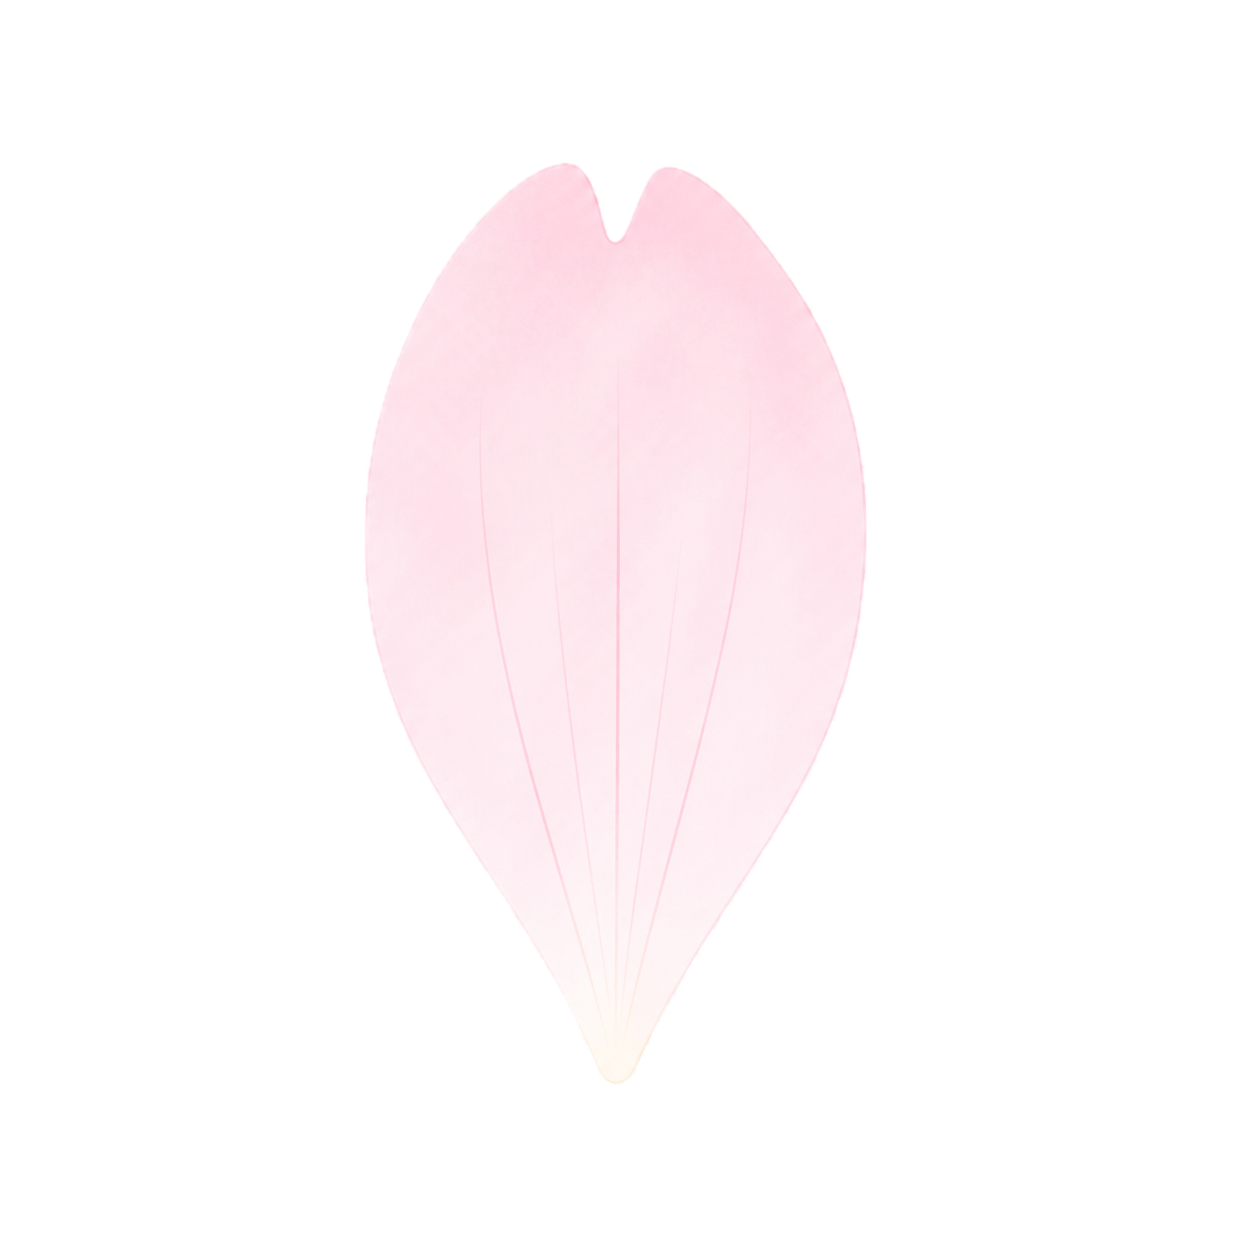
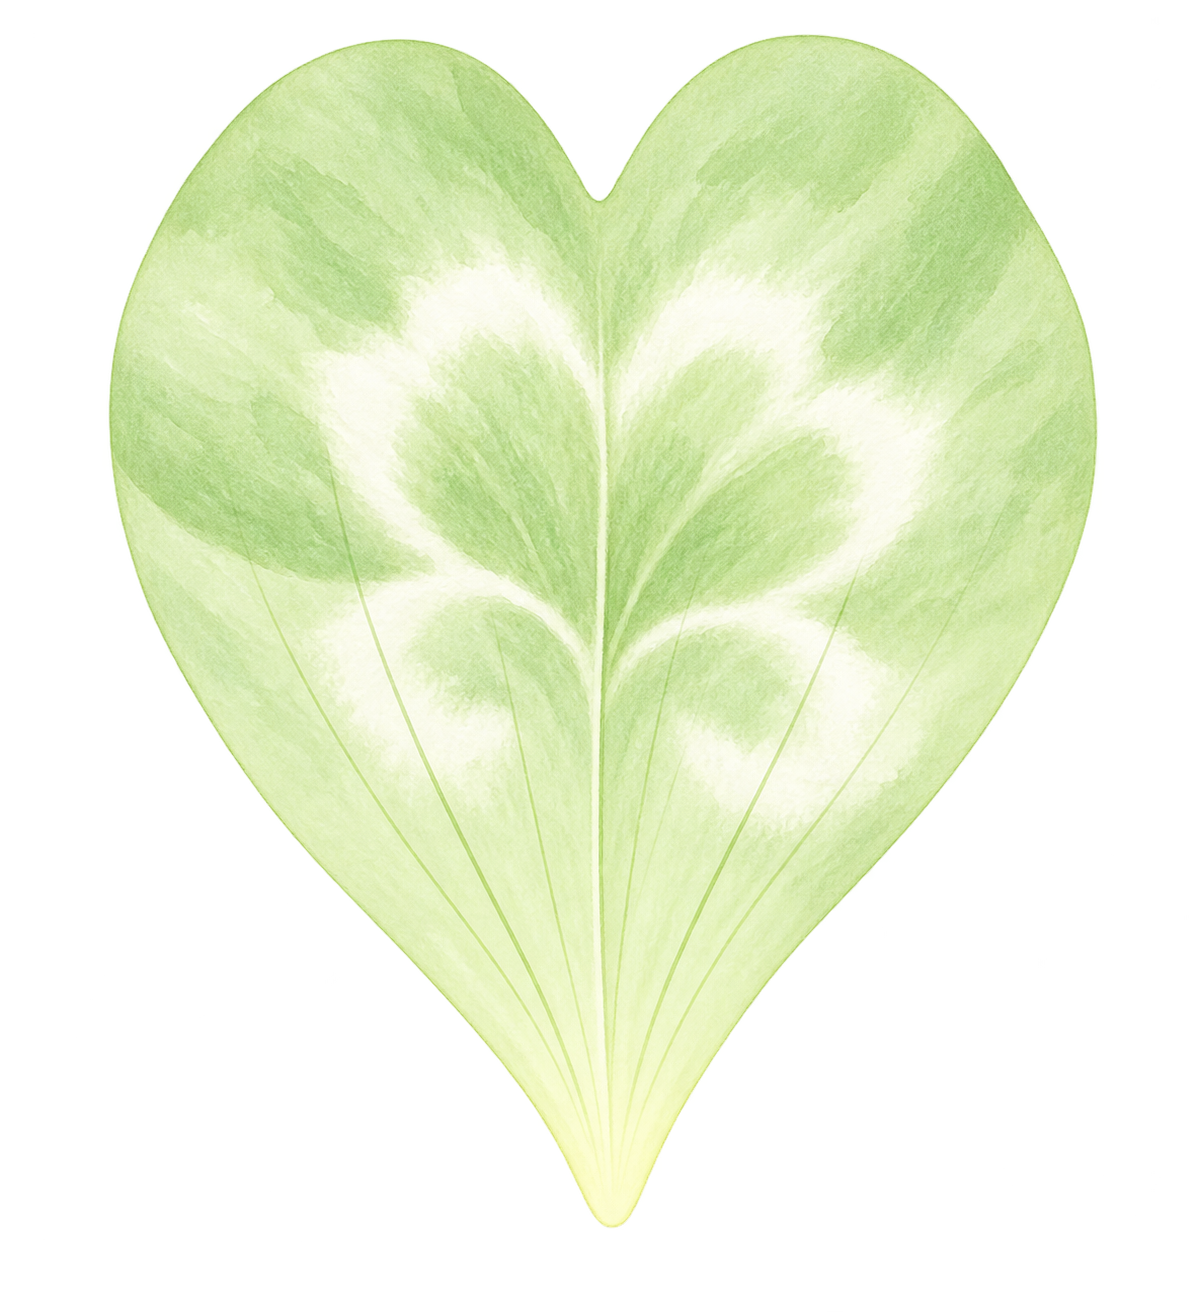
feat: ビジュアルを桜からクローバーに変更し、フェードインアニメーションを追加

diff --git a/app/assets/stylesheets/application.css b/app/assets/stylesheets/application.css
@@ -35,8 +35,8 @@ body{
     font-size: 20px;
     border-radius: 50%;
     border: none;
-    background-color: #4a90d9;
-    color: white;
+    background-color: #e6ffed;
+    color: rgb(0, 0, 0);
     cursor:pointer;
 
 }
@@ -48,3 +48,35 @@ body{
 [data-breathing-target="flowers"] {
     white-space: pre-line;
     min-height: 80px;
+}
+
+@keyframes fade-leaf-1 {
+    0% { opacity: 0; }
+    16.67% { opacity: 1; }    /* 0秒〜1秒でフェードイン */
+    83.33% { opacity: 1; }    /* 見えたままキープ */
+    100% { opacity: 0; }      /* 5秒〜6秒でフェードアウト */
+}
+
+@keyframes fade-leaf-2 {
+    0% { opacity: 0; }
+    16.67% { opacity: 0; }    /* 1秒までは、まだ透明 */
+    33.33% { opacity: 1; }    /* 1秒〜2秒でフェードイン */
+    83.33% { opacity: 1; }
+    100% { opacity: 0; }
+}
+
+@keyframes fade-leaf-3 {
+    0% { opacity: 0; }
+    33.33% { opacity: 0; }    /* 2秒までは、まだ透明 */
+    50% { opacity: 1; }       /* 2秒〜3秒でフェードイン */
+    83.33% { opacity: 1; }
+    100% { opacity: 0; }
+}
+
+@keyframes fade-leaf-4 {
+    0% { opacity: 0; }
+    50% { opacity: 0; }       /* 3秒までは、まだ透明 */
+    66.67% { opacity: 1; }    /* 3秒〜4秒でフェードイン */
+    83.33% { opacity: 1; }
+    100% { opacity: 0; }
+}
